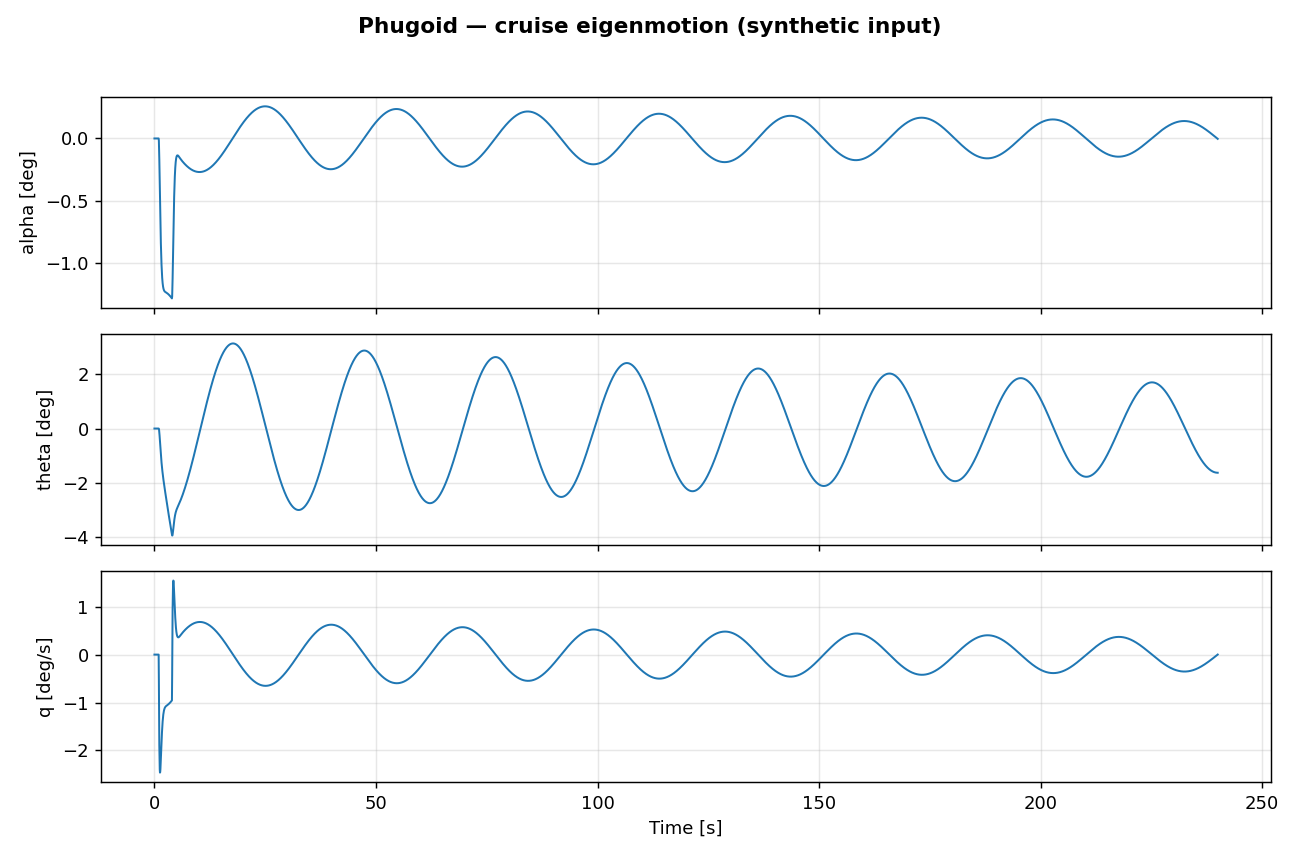
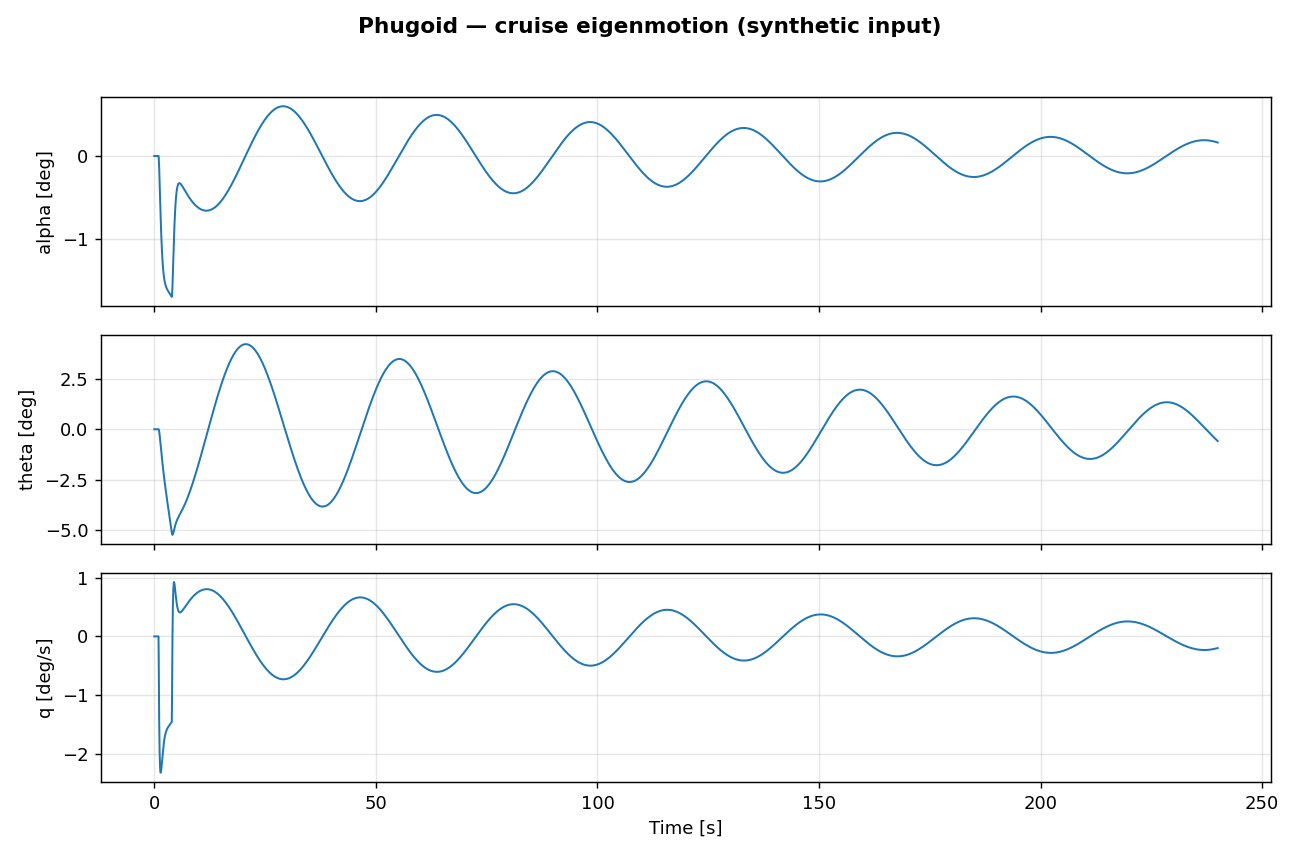
type shi

diff --git a/final_characteristics/vehicle_dynamics/vd_parameters.py b/final_characteristics/vehicle_dynamics/vd_parameters.py
@@ -1,7 +1,7 @@
 # This file contains all the independent variables that describe the aircraft in variable form.
 
 from dataclasses import dataclass, field
-
+import numpy as np
 
 @dataclass
 class Mission:
@@ -56,8 +56,8 @@ class WingGeometry:
     MAC_fw:               float = 1.262  # [m]
     MAC_aw:               float = 1.262  # [m]
 
-    taper_fw:             float = 0.4  # [-]
-    taper_aw:             float = 0.4  # [-]
+    taper_fw:             float = 0.45  # [-]
+    taper_aw:             float = 0.45  # [-]
 
     chord_fw_root:        float = 1.66  # [m]
     chord_fw_tip:         float = 0.75  # [m]
@@ -108,20 +108,20 @@ class TailGeometry:
     """
 
     n_fins:                     float = 2    # [-]
-    x_vert_tail:                float = 8.5  # [m]
-    c_r_vert_tail:              float = 1.4  # [m]
-    c_t_vert_tail:              float = 0.5  # [m]
-    b_vert_tail:                float = 2.5  # [m]
+    x_vert_tail:                float = 6.4  # [m]
+    c_r_vert_tail:              float = 1.8  # [m]
+    c_t_vert_tail:              float = 1.3  # [m]
+    taper_vert_tail:            float = c_t_vert_tail/c_r_vert_tail  # [-]
+    b_vert_tail:                float = 1.6  # [m]
     S_vert_tail:                float = ((c_r_vert_tail + c_t_vert_tail)*b_vert_tail)/2  # [m^2]
     AR_vert_tail:               float = b_vert_tail**2/S_vert_tail  # [-]
-    LE_sweep_vert_tail:         float = 0.31  # [rad]
+    LE_sweep_vert_tail:         float = np.arctan(c_r_vert_tail*(1 - taper_vert_tail)/b_vert_tail)  # [rad]
     airfoil_vert_tail:          str   = "NACA 0012"  # [-]
 
-    taper_vert_tail:            float = 0.33  # [-]
-    MAC_vert_tail:              float = 0.867  # [m]
+    MAC_vert_tail:              float = (2/3)*c_r_vert_tail*((1 + taper_vert_tail + taper_vert_tail**2)/(1 + taper_vert_tail))  # [m]
     t_c_vert_tail:              float = 0.12  # [-]
     te_angle_vert_tail:         float = 14  # [deg.]
-    z_vert_tail:                float = 1.0  # [m] vertical a.c. height (datum)
+    z_vert_tail:                float = 0.65  # [m] vertical a.c. height (datum)
 
 
 @dataclass
@@ -138,13 +138,13 @@ class WingletGeometry:
     enabled:                    bool  = True  # keep existing model backward-compatible
     n_winglets:                 int   = 2      # usually left and right tip joiners
 
-    S_winglet:                  float = 3.125  # [m^2] planform area of ONE winglet/joiner
-    b_winglet:                  float = 2.5  # [m] vertical span/height of ONE winglet
+    S_winglet:                  float = 1.57  # [m^2] planform area of ONE winglet/joiner
+    b_winglet:                  float = 2.1  # [m] vertical span/height of ONE winglet
     AR_winglet:                 float = b_winglet**2/S_winglet  # [-] aspect ratio of ONE winglet
     taper_winglet:              float = 1.0 # [-]
-    LE_sweep_winglet:           float = 0.5  # [rad]
+    LE_sweep_winglet:           float = np.arctan(WingGeometry.stagger/WingGeometry.gap)  # [rad]
 
-    x_ac_winglet:               float = 3.6  # [m] longitudinal aerodynamic-centre location
+    x_ac_winglet:               float = 4.125  # [m] longitudinal aerodynamic-centre location
     z_ac_winglet:               float = 0.0  # [m] vertical aerodynamic-centre location
 
     airfoil_winglet:            str   = "NASA LANGLEY LS(1)-0417"  # [-]
@@ -192,19 +192,19 @@ class MassProperties:
     Aircraft mass and inertia properties.
     """
 
-    mtow:         float = 2000.0  # [kg]
-    oew:          float = None  # [kg]
-    payload_mass: int   = 400  # [kg]
+    mtow:         float = 2000.0    # [kg]
+    oew:          float = None      # [kg]
+    payload_mass: int   = 400       # [kg]
 
-    x_cg_min:     float = None  # [m]
-    x_cg_max:     float = None  # [m]
-    x_cg_opt:     float = 2.8  # [m] - Optimal CG location during cruise
-    z_cg:         float = None  # [m] - vertical CG (datum), used by moment arms
+    x_cg_min:     float = None      # [m]
+    x_cg_max:     float = None      # [m]
+    x_cg_opt:     float = 3.311     # [m] - Optimal CG location during cruise
+    z_cg:         float = -0.162    # [m] - vertical CG (datum), used by moment arms
 
-    I_xx:         float = None  # [kg m^2]
-    I_yy:         float = None  # [kg m^2]
-    I_zz:         float = None  # [kg m^2]
-    I_xz:         float = None  # [kg m^2]
+    I_xx:         float = 11458.0   # [kg m^2]
+    I_yy:         float = 9707.0    # [kg m^2]
+    I_zz:         float = 18196.0   # [kg m^2]
+    I_xz:         float = 1949.0    # [kg m^2]
 
 
 @dataclass
@@ -266,7 +266,7 @@ class AerodynamicCoefficients:
 
     # Long. positions of aerodynamic centres
     x_ac_fw_cruise:                     float = 1.60  # [m]
-    x_ac_aw_cruise:                     float = 6.02  # [m]
+    x_ac_aw_cruise:                     float = 6.65  # [m]
     x_ac_fw_approach:                   float = None  # [m]
     x_ac_aw_approach:                   float = None  # [m]
 

diff --git a/final_characteristics/vehicle_dynamics/aircraft.py b/final_characteristics/vehicle_dynamics/aircraft.py
@@ -51,7 +51,7 @@ class DatcomChartInputs:
     # Vertical-tail effective aspect ratio and other ratios (Figs 5.3.1.1-22a/b)
     vtail_Aeff_A:             float = 1.5
     cyb_v_over_cyb_v_eff:     float = 0.9
-    cyb_v_eff:                float = 4.0
+    cyb_v_eff:                float = 3.75
  
     # CY_beta body interference K_i (Fig 5.2.1.1-7)
     cyb_Ki:                   float = 1.4
